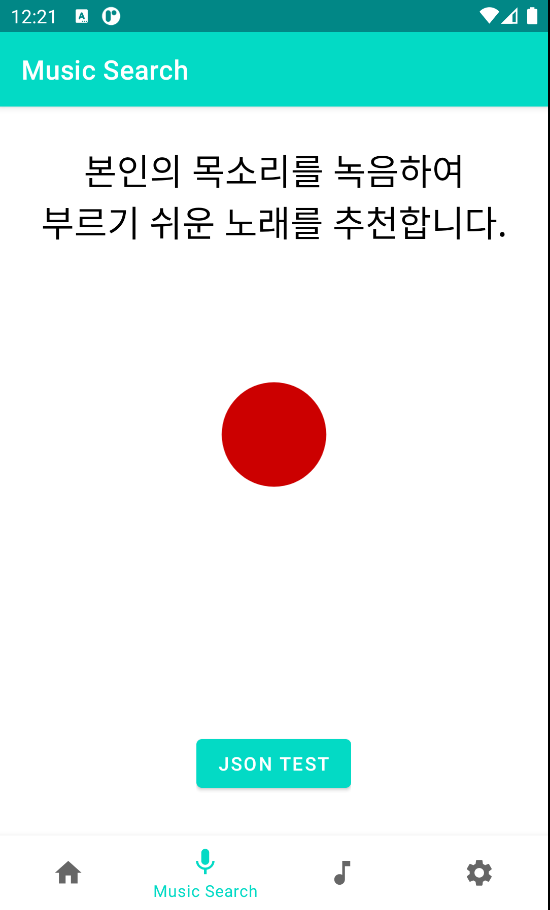
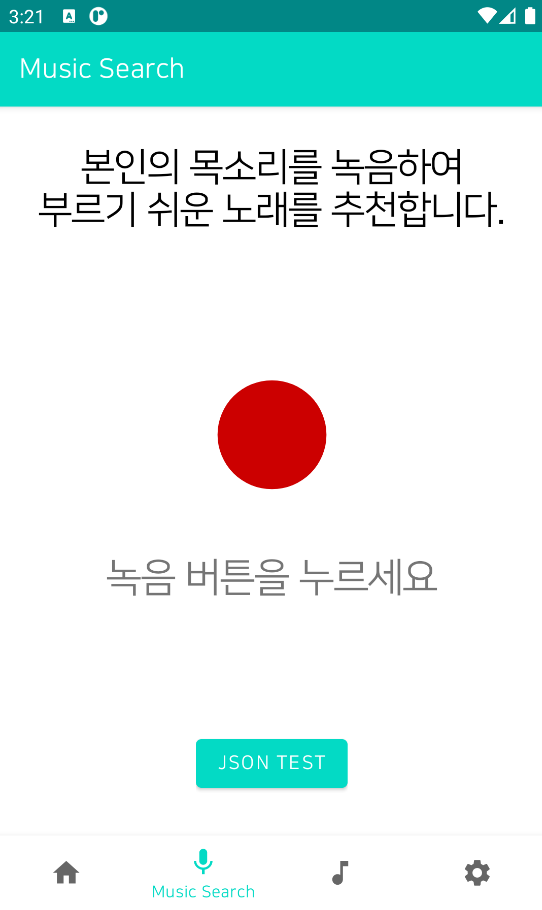
search page mesage

diff --git a/app/src/main/java/com/example/rec_commend/ui/SearchFragment.java b/app/src/main/java/com/example/rec_commend/ui/SearchFragment.java
@@ -92,7 +92,7 @@ public abstract class SearchFragment extends Fragment {
         recOverlay.setVisibility(View.INVISIBLE);
 
         timerText = root.findViewById(R.id.timer);
-        initTimerView();
+        initTimerView("녹음 버튼을 누르세요");
 
         waveFormView = root.findViewById(R.id.siriView);
         initWaveFormView();
@@ -178,8 +178,7 @@ public abstract class SearchFragment extends Fragment {
         recBtn.setVisibility(View.INVISIBLE);
         recOverlay.setVisibility(View.INVISIBLE);
         progressBar.setVisibility(View.VISIBLE);
-        initTimerView();
-        timerText.setText("잠시만 기다리세요...");
+        initTimerView("잠시만 기다리세요...");
         initWaveFormView();
 
         recorder.stop();
@@ -257,12 +256,14 @@ public abstract class SearchFragment extends Fragment {
         timer.schedule(ti,0,1000);
     }
 
-    private void initTimerView(){
+    private void initTimerView(String msg){
         if(ti != null) ti.cancel();
-        timerText.setText("");
+        timerText.setText(msg);
     }
 
     private void activateWaveFormView(){
+        waveFormView.setVisibility(View.VISIBLE);
+
         if(waveThread != null) waveThread.interrupt();
         waveThread = null;
         waveThread = new Thread(){
@@ -283,7 +284,8 @@ public abstract class SearchFragment extends Fragment {
         waveThread.start();
     }
     private void initWaveFormView(){
-        if(waveThread != null) waveThread.interrupt();
+        waveFormView.setVisibility(View.INVISIBLE);
         waveFormView.updateSpeaking(false);
+        if(waveThread != null) waveThread.interrupt();
     }
 }
